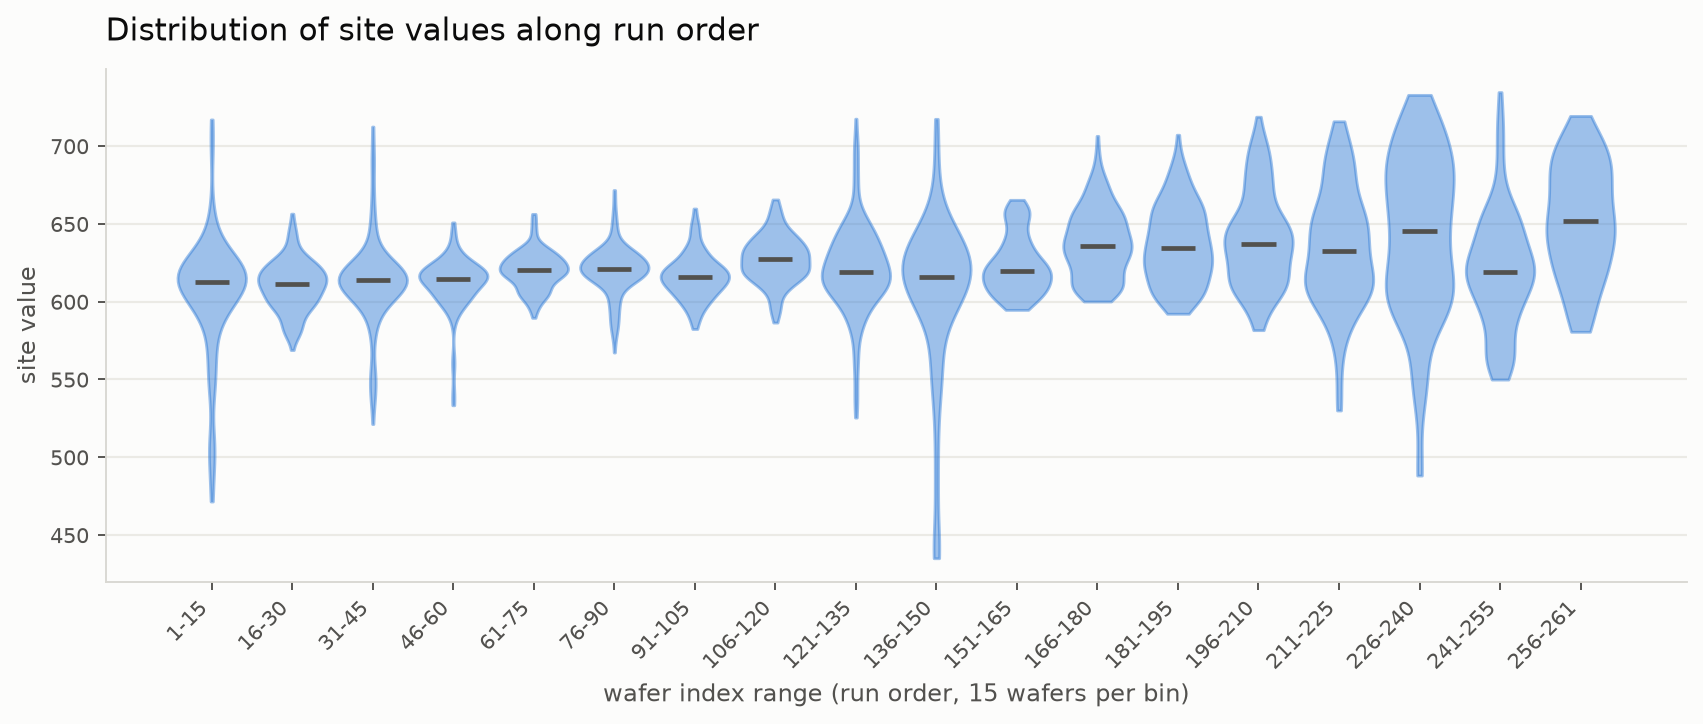
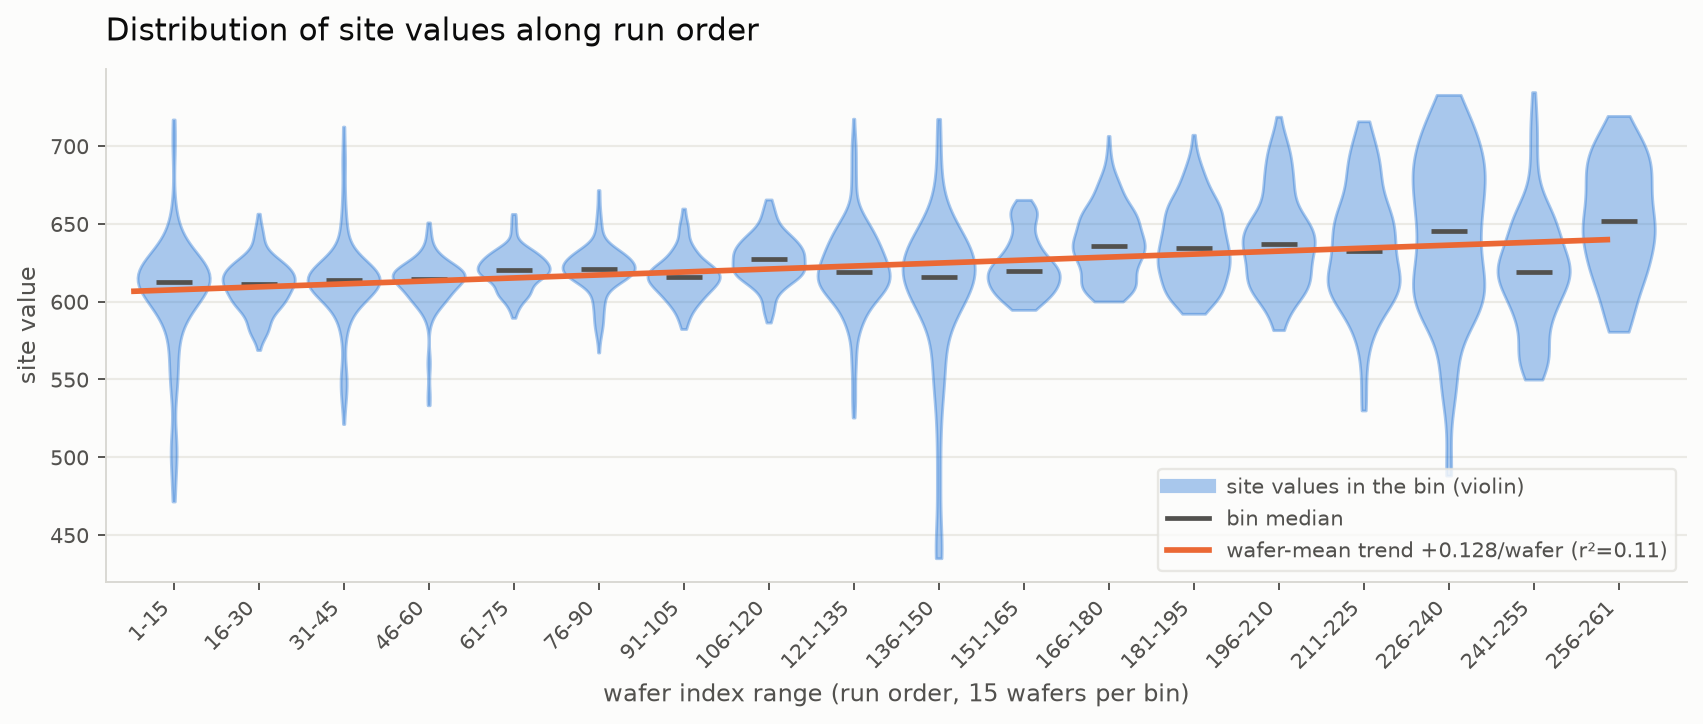
Overlay the wafer-mean trend and derive the coefficient limits
Draw the linear trend of the wafer means on the violin chart, and add an
appendix that works out why each decomposition coefficient approaches one,
showing that the deficit of the first is bounded by the site count and that
of the second by the wafer count.

Claude-Session: https://claude.ai/code/session_01EmRuphkFeGWkDYDUkauFqt

diff --git a/EDA/Variability/WiW-W2W/wiw-w2w-anova.md b/EDA/Variability/WiW-W2W/wiw-w2w-anova.md
@@ -1,5 +1,5 @@
 # Within-Wafer and Wafer-to-Wafer Variance Decomposition
-Rev. 4 | Created: 2026-09-01 | Updated: 2026-09-03 13:02 CDT
+Rev. 5 | Created: 2026-09-01 | Updated: 2026-09-03 13:04 CDT
 
 > ANOVA (analysis of variance) 는 관측치의 전체 산포를 몇 개의 원인으로 나누어, 어느 원인이 얼마나 기여하는지 수치로 보이는 방법이다.
 
@@ -37,7 +37,7 @@ $$\overline{S_{\mathrm{within}}^2} = \frac{1}{K} \sum_{i=1}^{K} S_i^2, \qquad S_
 
 $$S_{\mathrm{total}}^2 = \frac{K(N-1)}{M-1} \overline{S_{\mathrm{within}}^2} + \frac{N(K-1)}{M-1} S_{\mathrm{between}}^2$$
 
-두 계수는 $K$ 와 $N$ 이 커질수록 1 에 가까워지므로, 흔히 쓰는 형태는 계수를 떼어낸 아래 근사식이다.
+두 계수는 $K$ 와 $N$ 이 커질수록 1 에 가까워지므로, 흔히 쓰는 형태는 계수를 떼어낸 아래 근사식이다. 계수가 1 로 가는 과정은 [Appendix B](#appendix-b-limits-of-the-decomposition-coefficients) 에 적었다.
 
 $$S_{\mathrm{total}} \approx \sqrt{\overline{S_{\mathrm{within}}^2} + S_{\mathrm{between}}^2}$$
 
@@ -55,11 +55,11 @@ $$S_{\mathrm{total}} \approx \sqrt{\overline{S_{\mathrm{within}}^2} + S_{\mathrm
 - Wafer 평균: 최소 452.9, 최대 705.0, 표준편차 28.70.
 - Within-wafer range: 평균 41.32, 최대 123.46.
 
-Wafer 를 run order 로 15 장씩 묶어 그 안의 site 값 분포를 violin 으로 그리면, 분포의 위치와 폭이 함께 움직이는 것이 보인다. 앞쪽 구간의 중앙값은 610 대에 머물다가 뒤쪽 구간에서 650 근처까지 올라가고, 아래로 길게 뻗은 꼬리는 그 구간에 값이 크게 낮은 wafer 가 섞여 있다는 뜻이다.
+Wafer 를 run order 로 15 장씩 묶어 그 안의 site 값 분포를 violin 으로 그리면, 분포의 위치와 폭이 함께 움직이는 것이 보인다. 앞쪽 구간의 중앙값은 610 대에 머물다가 뒤쪽 구간에서 650 근처까지 올라가고, 아래로 길게 뻗은 꼬리는 그 구간에 값이 크게 낮은 wafer 가 섞여 있다는 뜻이다. 겹쳐 그린 wafer 평균의 선형 추세선은 같은 상승을 한 줄로 요약한다.
 
 <img src="wiw-w2w-anova_fig/site_value_violin.png" width="900" style="max-width: 100%;" alt="Fig 1">
 
-Fig 1. Distribution of site values in bins of 15 consecutive wafers along run order
+Fig 1. Distribution of site values in bins of 15 consecutive wafers along run order, with the linear trend of the wafer means
 
 ## 3. Variance Decomposition
 
@@ -157,3 +157,27 @@ Fig 4. Wafer means with the 18 wafers whose within-wafer variance is inflated
 - **site**: 한 wafer 위의 측정 지점. 열 `S1`~`S13` 에 해당.
 - **w2w**: wafer-to-wafer. wafer 사이의 변동.
 - **WiW**: within-wafer. 한 wafer 안 site 사이의 변동.
+
+## Appendix B. Limits of the Decomposition Coefficients
+
+Section 1.2 의 두 계수를 $a$ 와 $b$ 로 두면 아래와 같다.
+
+$$a = \frac{K(N-1)}{M-1} = \frac{KN-K}{KN-1}, \qquad b = \frac{N(K-1)}{M-1} = \frac{KN-N}{KN-1}$$
+
+분자와 분모가 모두 $KN$ 에서 시작하므로, 1 에서 얼마나 모자라는지를 보는 편이 빠르다.
+
+$$1 - a = \frac{K-1}{KN-1}, \qquad 1 - b = \frac{N-1}{KN-1}$$
+
+두 결손항은 각각 한쪽 크기에만 매인다. $1-a$ 의 분자와 분모를 $K$ 로, $1-b$ 의 분자와 분모를 $N$ 으로 나누면 아래 꼴이 된다.
+
+$$1 - a = \frac{1 - 1/K}{N - 1/K}, \qquad 1 - b = \frac{1 - 1/N}{K - 1/N}$$
+
+$K$ 를 아무리 키워도 $1-a$ 는 $1/N$ 에서 멈추고, $N$ 을 아무리 키워도 $1-b$ 는 $1/K$ 에서 멈춘다.
+
+$$\lim_{K \to \infty} (1 - a) = \frac{1}{N}, \qquad \lim_{N \to \infty} (1 - b) = \frac{1}{K}$$
+
+따라서 $a$ 를 1 로 보내는 것은 wafer 당 site 수 $N$ 이고, $b$ 를 1 로 보내는 것은 wafer 수 $K$ 이며, 둘이 함께 커져야 두 계수가 같이 1 이 된다.
+
+$$\lim_{N \to \infty} a = 1, \qquad \lim_{K \to \infty} b = 1, \qquad \lim_{K, N \to \infty} S_{\mathrm{total}}^2 = \overline{S_{\mathrm{within}}^2} + S_{\mathrm{between}}^2$$
+
+이 문서의 $K = 261$, $N = 13$ 에서는 $1 - a = 260/3392 = 0.0767$ 로 $1/N = 0.0769$ 에 거의 같고, $1 - b = 12/3392 = 0.0035$ 로 $1/K = 0.0038$ 에 거의 같다. 즉 $b$ 는 이미 1 로 보아도 되지만 $a$ 는 7.7% 모자라며, site 를 13 개만 재는 한 이 결손은 wafer 를 아무리 더 재도 줄지 않는다. 이 자료에서 $\overline{S_{\mathrm{within}}^2} = 251.98$ 과 $S_{\mathrm{between}}^2 = 823.46$ 을 그냥 더하면 $S_{\mathrm{total}} = 32.79$ 가 되어 관측값 32.45 를 넘지만, 두 계수를 붙이면 관측값과 같아진다.
